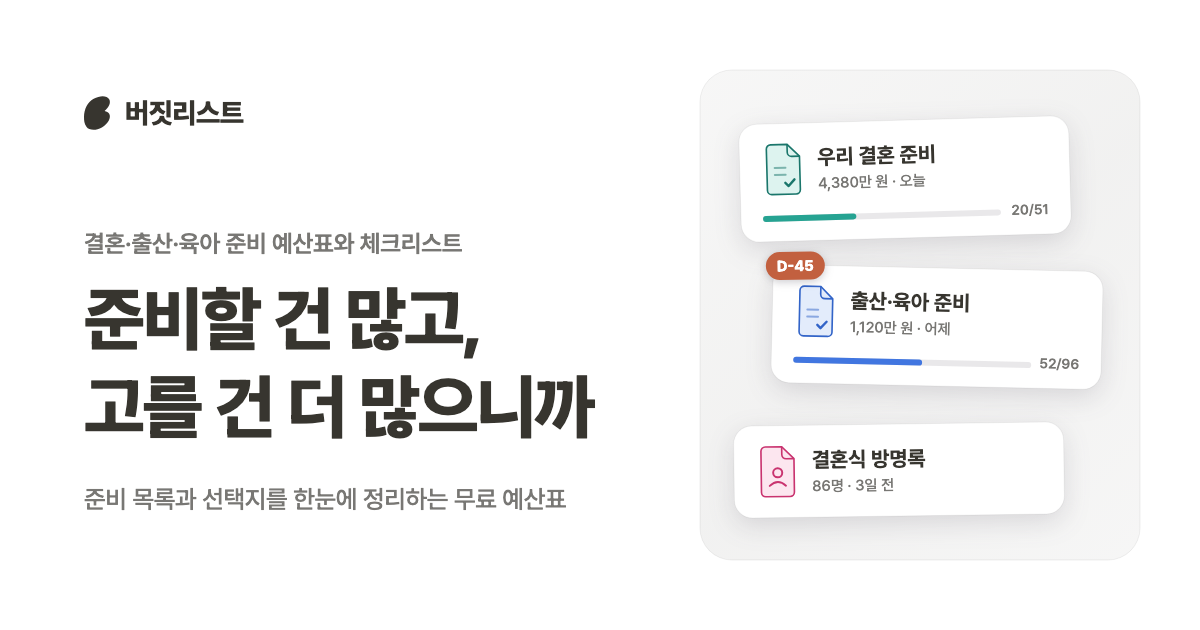
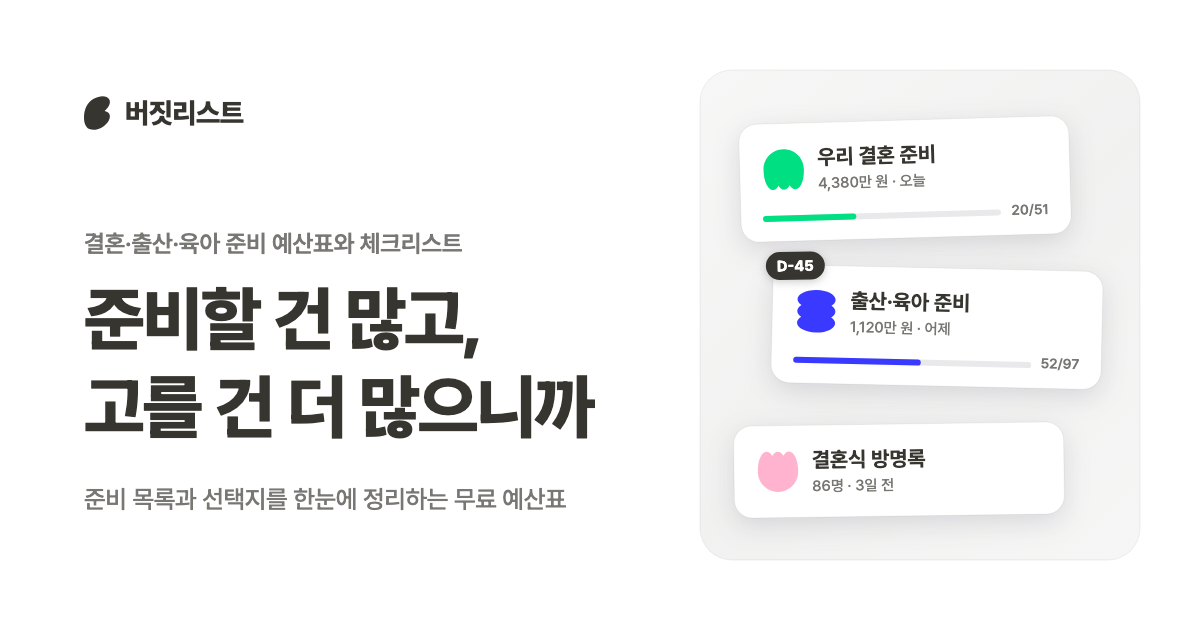
Add 가습기 to the baby template, redraw the share image, and bump asset versions

diff --git a/budget/baby/index.html b/budget/baby/index.html
@@ -4,7 +4,7 @@
 <meta charset="UTF-8">
 <meta name="viewport" content="width=device-width, initial-scale=1">
 <title>출산 준비물 리스트 · 육아용품 예산표 무료 양식 | 버짓리스트</title>
-<meta name="description" content="배냇저고리부터 카시트·유모차까지 출산 준비물 96개가 들어 있는 무료 체크리스트 겸 예산표. 항목마다 추천 제품이 선택지로 정리돼 있어 비교하기 쉽고, 엑셀로 내보내 구글 시트에서 이어 쓸 수 있어요.">
+<meta name="description" content="배냇저고리부터 카시트·유모차까지 출산 준비물 97개가 들어 있는 무료 체크리스트 겸 예산표. 항목마다 추천 제품이 선택지로 정리돼 있어 비교하기 쉽고, 엑셀로 내보내 구글 시트에서 이어 쓸 수 있어요.">
 <meta name="robots" content="index,follow">
 <link rel="canonical" href="https://slowmorn.com/budget/baby/">
 <meta property="og:url" content="https://slowmorn.com/budget/baby/">
@@ -12,13 +12,13 @@
 <meta property="og:type" content="article">
 <meta property="og:locale" content="ko_KR">
 <meta property="og:title" content="출산 준비물 리스트 · 육아용품 예산표 무료 양식">
-<meta property="og:description" content="출산 준비물 96개와 제품 선택지가 정리된 무료 체크리스트. 예산까지 한 번에.">
+<meta property="og:description" content="출산 준비물 97개와 제품 선택지가 정리된 무료 체크리스트. 예산까지 한 번에.">
 <link rel="icon" href="../favicon.svg?v=3" type="image/svg+xml">
 <link rel="apple-touch-icon" href="../favicon.svg?v=3">
-<meta property="og:image" content="https://slowmorn.com/budget/og.png?v=3">
+<meta property="og:image" content="https://slowmorn.com/budget/og.png?v=4">
 <meta property="og:image:width" content="1200">
 <meta property="og:image:height" content="630">
-<meta name="twitter:image" content="https://slowmorn.com/budget/og.png?v=3">
+<meta name="twitter:image" content="https://slowmorn.com/budget/og.png?v=4">
 <!-- Google Analytics 4 -->
 <script async src="https://www.googletagmanager.com/gtag/js?id=G-ZB0D0NTBJ8"></script>
 <script>
@@ -29,8 +29,8 @@
 </script>
 <link rel="preconnect" href="https://cdn.jsdelivr.net" crossorigin>
 <link href="https://cdn.jsdelivr.net/npm/pretendard@1.3.9/dist/web/variable/pretendardvariable-dynamic-subset.min.css" rel="stylesheet">
-<link rel="stylesheet" href="../assets/base.css?v=20260925c">
-<link rel="stylesheet" href="../assets/site.css?v=20260925d">
+<link rel="stylesheet" href="../assets/base.css?v=20260926b">
+<link rel="stylesheet" href="../assets/site.css?v=20260926d">
 </head>
 <body>
 <header class="topbar">
@@ -53,7 +53,7 @@
     <p class="hero-kicker">무료 템플릿 · 가입 없음</p>
     <h1>출산 준비물 리스트와 예산을 한 장에 정리하세요</h1>
     <p class="lead">
-      산모 용품과 출산 가방부터 아기옷, 수면·생활용품, 수유·기저귀, 목욕·위생용품, 세제, 외출용품까지 96개 항목이 미리 들어 있어요.
+      산모 용품과 출산 가방부터 아기옷, 수면·생활용품, 수유·기저귀, 목욕·위생용품, 세제, 외출용품까지 97개 항목이 미리 들어 있어요.
       항목마다 많이 쓰는 제품이 <b>선택지</b>로 정리돼 있어서 가격을 비교하고 고르기만 하면 예산이 채워져요.
       빠진 건 추가하고, 준비가 끝난 항목은 체크해 두세요.
     </p>
@@ -64,7 +64,7 @@
 
 <main>
   <h2>출산 준비물 체크리스트</h2>
-  <p>카테고리 10개, 항목 96개예요. 아기 성별과 계절, 조리원 제공 품목에 따라 필요 없는 건 지우면 돼요.</p>
+  <p>카테고리 10개, 항목 97개예요. 아기 성별과 계절, 조리원 제공 품목에 따라 필요 없는 건 지우면 돼요.</p>
   <table class="cat-table">
     <thead><tr><th>카테고리</th><th>준비물</th></tr></thead>
     <tbody>
@@ -72,7 +72,7 @@
       <tr><th>출산 가방</th><td>수유 브라, 임부 팬티, 안심 팬티, 산모 패드, 수유 패드, 중·대형 생리대, 모유저장팩, 양배추팩, 가슴 쿨링패치, 텀블러, 주름 빨대, 보습 크림, 무압박 양말, 압박스타킹, 손목보호대, 영양제, 세면도구, 기초화장품, 마스크, 푹신한 슬리퍼, 충전기, 립밤, 손톱깎이, 비판텐, 아기 손수건</td></tr>
       <tr><th>아기옷</th><td>배냇저고리, 바디수트, 겉싸개, 속싸개, 스와들업, 손싸개, 모자, 양말, 내복, 아기 손수건, 외출복</td></tr>
       <tr><th>수면</th><td>아기 침대 (신생아용), 아기침대, 침대 시트, 방수 패드, 쿨매트, 아기 이불</td></tr>
-      <tr><th>생활</th><td>하이체어, 바운서, 거실 매트, 타이니모빌, 아기체육관</td></tr>
+      <tr><th>생활</th><td>하이체어, 바운서, 거실 매트, 가습기, 타이니모빌, 아기체육관</td></tr>
       <tr><th>수유</th><td>젖병, 쪽쪽이, 젖병 세척기, 젖병 소독기, 분유포트, 분유쉐이커, 분유, 유축기, 젖병솔, 젖병집게</td></tr>
       <tr><th>기저귀</th><td>기저귀 갈이대, 기저귀, 방수 패드, 위생 패드, 기저귀 휴지통, 기저귀 가방</td></tr>
       <tr><th>목욕·위생</th><td>아기 욕조 (신생아용), 아기 수전, 샤워헤드, 아기 비데, 물티슈, 구강 티슈, 아기 면봉, 아기칫솔, 아기치약, 아기 샴푸·바디워시, 아기 로션, 수딩젤, 체온계, 온습도계, 손톱깎이 세트, 콧물 흡입기</td></tr>
@@ -107,7 +107,7 @@
 
   <div class="end">
     <h2>지금 바로 시작해 보세요</h2>
-    <p>출산 준비물 96개와 제품 선택지가 채워진 체크리스트가 열려요.</p>
+    <p>출산 준비물 97개와 제품 선택지가 채워진 체크리스트가 열려요.</p>
     <a class="cta" href="../planner/?tpl=baby">출산 준비 템플릿 열기</a>
   </div>
 </main>
@@ -131,7 +131,7 @@
       "name": "출산 준비물 리스트 만들기",
       "inLanguage": "ko",
       "step": [
-        { "@type": "HowToStep", "name": "템플릿 열기", "text": "출산 준비 템플릿을 열어 카테고리 10개와 준비물 96개를 불러옵니다." },
+        { "@type": "HowToStep", "name": "템플릿 열기", "text": "출산 준비 템플릿을 열어 카테고리 10개와 준비물 97개를 불러옵니다." },
         { "@type": "HowToStep", "name": "항목 정리", "text": "조리원 제공 품목이나 물려받을 물건을 정리해 목록을 우리 상황에 맞춥니다." },
         { "@type": "HowToStep", "name": "제품 고르기", "text": "항목의 선택지에서 제품을 비교하고 하나를 고르면 예산이 채워집니다." },
         { "@type": "HowToStep", "name": "내보내기", "text": "엑셀로 내보내 구글 시트에서 배우자와 함께 관리합니다." }

diff --git a/budget/guide/index.html b/budget/guide/index.html
@@ -15,10 +15,10 @@
 <meta property="og:description" content="파일 만들기부터 선택지, 실제 지출 칸, 엑셀 내보내기, 함께 쓰기까지 버짓리스트 사용법.">
 <link rel="icon" href="../favicon.svg?v=3" type="image/svg+xml">
 <link rel="apple-touch-icon" href="../favicon.svg?v=3">
-<meta property="og:image" content="https://slowmorn.com/budget/og.png?v=3">
+<meta property="og:image" content="https://slowmorn.com/budget/og.png?v=4">
 <meta property="og:image:width" content="1200">
 <meta property="og:image:height" content="630">
-<meta name="twitter:image" content="https://slowmorn.com/budget/og.png?v=3">
+<meta name="twitter:image" content="https://slowmorn.com/budget/og.png?v=4">
 <!-- Google Analytics 4 -->
 <script async src="https://www.googletagmanager.com/gtag/js?id=G-ZB0D0NTBJ8"></script>
 <script>
@@ -29,8 +29,8 @@
 </script>
 <link rel="preconnect" href="https://cdn.jsdelivr.net" crossorigin>
 <link href="https://cdn.jsdelivr.net/npm/pretendard@1.3.9/dist/web/variable/pretendardvariable-dynamic-subset.min.css" rel="stylesheet">
-<link rel="stylesheet" href="../assets/base.css?v=20260925c">
-<link rel="stylesheet" href="../assets/site.css?v=20260925d">
+<link rel="stylesheet" href="../assets/base.css?v=20260926b">
+<link rel="stylesheet" href="../assets/site.css?v=20260926d">
 </head>
 <body>
 <header class="topbar">
@@ -66,7 +66,7 @@
   </p>
   <ul>
     <li><b>결혼 준비</b> — 예식장·스드메·예물·혼수까지 8개 카테고리, 51개 항목</li>
-    <li><b>출산·육아 준비</b> — 산모·출산 가방·아기옷·수유·외출까지 10개 카테고리, 96개 항목과 제품 선택지</li>
+    <li><b>출산·육아 준비</b> — 산모·출산 가방·아기옷·수유·외출까지 10개 카테고리, 97개 항목과 제품 선택지</li>
     <li><b>방명록</b> — 이름과 축의금만 적는 화면</li>
     <li><b>빈 목록</b> — 카테고리 하나와 빈 항목으로 처음부터</li>
   </ul>
@@ -262,7 +262,7 @@
 
 <script src="../assets/config.js?v=20260923v"></script>
 <script src="../assets/auth.js?v=20260923v"></script>
-<script src="../assets/store.js?v=20260925e"></script>
+<script src="../assets/store.js?v=20260926b"></script>
 <script src="../assets/shell.js?v=20260923x"></script>
 </body>
 </html>

diff --git a/budget/planner/index.html b/budget/planner/index.html
@@ -15,10 +15,10 @@
 <meta name="twitter:card" content="summary_large_image">
 <link rel="icon" href="../favicon.svg?v=3" type="image/svg+xml">
 <link rel="apple-touch-icon" href="../favicon.svg?v=3">
-<meta property="og:image" content="https://slowmorn.com/budget/og.png?v=3">
+<meta property="og:image" content="https://slowmorn.com/budget/og.png?v=4">
 <meta property="og:image:width" content="1200">
 <meta property="og:image:height" content="630">
-<meta name="twitter:image" content="https://slowmorn.com/budget/og.png?v=3">
+<meta name="twitter:image" content="https://slowmorn.com/budget/og.png?v=4">
 <!-- Google Analytics 4 -->
 <script async src="https://www.googletagmanager.com/gtag/js?id=G-ZB0D0NTBJ8"></script>
 <script>
@@ -29,8 +29,8 @@
 </script>
 <link rel="preconnect" href="https://cdn.jsdelivr.net" crossorigin>
 <link href="https://cdn.jsdelivr.net/npm/pretendard@1.3.9/dist/web/variable/pretendardvariable-dynamic-subset.min.css" rel="stylesheet">
-<link rel="stylesheet" href="../assets/base.css?v=20260925c">
-<link rel="stylesheet" href="../assets/site.css?v=20260925d">
+<link rel="stylesheet" href="../assets/base.css?v=20260926b">
+<link rel="stylesheet" href="../assets/site.css?v=20260926d">
 <link rel="stylesheet" href="../assets/app.css?v=20260924e">
 </head>
 <body>
@@ -183,8 +183,8 @@
 
 <script src="../assets/config.js?v=20260923v"></script>
 <script src="../assets/auth.js?v=20260923v"></script>
-<script src="../assets/store.js?v=20260925e"></script>
+<script src="../assets/store.js?v=20260926b"></script>
 <script src="../assets/shell.js?v=20260923x"></script>
-<script src="../assets/app.js?v=20260925g"></script>
+<script src="../assets/app.js?v=20260926b"></script>
 </body>
 </html>

diff --git a/budget/privacy/index.html b/budget/privacy/index.html
@@ -15,10 +15,10 @@
 <meta property="og:description" content="버짓리스트가 어떤 정보를 왜, 얼마나 오래 보관하는지 안내합니다.">
 <link rel="icon" href="../favicon.svg?v=3" type="image/svg+xml">
 <link rel="apple-touch-icon" href="../favicon.svg?v=3">
-<meta property="og:image" content="https://slowmorn.com/budget/og.png?v=3">
+<meta property="og:image" content="https://slowmorn.com/budget/og.png?v=4">
 <meta property="og:image:width" content="1200">
 <meta property="og:image:height" content="630">
-<meta name="twitter:image" content="https://slowmorn.com/budget/og.png?v=3">
+<meta name="twitter:image" content="https://slowmorn.com/budget/og.png?v=4">
 <!-- Google Analytics 4 -->
 <script async src="https://www.googletagmanager.com/gtag/js?id=G-ZB0D0NTBJ8"></script>
 <script>
@@ -29,8 +29,8 @@
 </script>
 <link rel="preconnect" href="https://cdn.jsdelivr.net" crossorigin>
 <link href="https://cdn.jsdelivr.net/npm/pretendard@1.3.9/dist/web/variable/pretendardvariable-dynamic-subset.min.css" rel="stylesheet">
-<link rel="stylesheet" href="../assets/base.css?v=20260925c">
-<link rel="stylesheet" href="../assets/site.css?v=20260925d">
+<link rel="stylesheet" href="../assets/base.css?v=20260926b">
+<link rel="stylesheet" href="../assets/site.css?v=20260926d">
 </head>
 <body>
 <header class="topbar">
@@ -226,7 +226,7 @@
 
 <script src="../assets/config.js?v=20260923v"></script>
 <script src="../assets/auth.js?v=20260923v"></script>
-<script src="../assets/store.js?v=20260925e"></script>
+<script src="../assets/store.js?v=20260926b"></script>
 <script src="../assets/shell.js?v=20260923x"></script>
 </body>
 </html>

diff --git a/budget/index.html b/budget/index.html
@@ -16,10 +16,10 @@
 <meta name="twitter:card" content="summary_large_image">
 <link rel="icon" href="favicon.svg?v=3" type="image/svg+xml">
 <link rel="apple-touch-icon" href="favicon.svg?v=3">
-<meta property="og:image" content="https://slowmorn.com/budget/og.png?v=3">
+<meta property="og:image" content="https://slowmorn.com/budget/og.png?v=4">
 <meta property="og:image:width" content="1200">
 <meta property="og:image:height" content="630">
-<meta name="twitter:image" content="https://slowmorn.com/budget/og.png?v=3">
+<meta name="twitter:image" content="https://slowmorn.com/budget/og.png?v=4">
 <!-- Google Analytics 4 -->
 <script async src="https://www.googletagmanager.com/gtag/js?id=G-ZB0D0NTBJ8"></script>
 <script>
@@ -30,8 +30,8 @@
 </script>
 <link rel="preconnect" href="https://cdn.jsdelivr.net" crossorigin>
 <link href="https://cdn.jsdelivr.net/npm/pretendard@1.3.9/dist/web/variable/pretendardvariable-dynamic-subset.min.css" rel="stylesheet">
-<link rel="stylesheet" href="assets/base.css?v=20260925c">
-<link rel="stylesheet" href="assets/site.css?v=20260925d">
+<link rel="stylesheet" href="assets/base.css?v=20260926b">
+<link rel="stylesheet" href="assets/site.css?v=20260926d">
 </head>
 <body class="desk-page">
 
@@ -124,9 +124,9 @@
 
 <script src="assets/config.js?v=20260923v"></script>
 <script src="assets/auth.js?v=20260923v"></script>
-<script src="assets/store.js?v=20260925e"></script>
+<script src="assets/store.js?v=20260926b"></script>
 <script src="assets/shell.js?v=20260923x"></script>
-<script src="assets/desk.js?v=20260925f"></script>
+<script src="assets/desk.js?v=20260926c"></script>
 
 </body>
 </html>

diff --git a/budget/terms/index.html b/budget/terms/index.html
@@ -15,10 +15,10 @@
 <meta property="og:description" content="버짓리스트를 쓰실 때 적용되는 조건입니다.">
 <link rel="icon" href="../favicon.svg?v=3" type="image/svg+xml">
 <link rel="apple-touch-icon" href="../favicon.svg?v=3">
-<meta property="og:image" content="https://slowmorn.com/budget/og.png?v=3">
+<meta property="og:image" content="https://slowmorn.com/budget/og.png?v=4">
 <meta property="og:image:width" content="1200">
 <meta property="og:image:height" content="630">
-<meta name="twitter:image" content="https://slowmorn.com/budget/og.png?v=3">
+<meta name="twitter:image" content="https://slowmorn.com/budget/og.png?v=4">
 <!-- Google Analytics 4 -->
 <script async src="https://www.googletagmanager.com/gtag/js?id=G-ZB0D0NTBJ8"></script>
 <script>
@@ -29,8 +29,8 @@
 </script>
 <link rel="preconnect" href="https://cdn.jsdelivr.net" crossorigin>
 <link href="https://cdn.jsdelivr.net/npm/pretendard@1.3.9/dist/web/variable/pretendardvariable-dynamic-subset.min.css" rel="stylesheet">
-<link rel="stylesheet" href="../assets/base.css?v=20260925c">
-<link rel="stylesheet" href="../assets/site.css?v=20260925d">
+<link rel="stylesheet" href="../assets/base.css?v=20260926b">
+<link rel="stylesheet" href="../assets/site.css?v=20260926d">
 </head>
 <body>
 <header class="topbar">
@@ -179,7 +179,7 @@
 
 <script src="../assets/config.js?v=20260923v"></script>
 <script src="../assets/auth.js?v=20260923v"></script>
-<script src="../assets/store.js?v=20260925e"></script>
+<script src="../assets/store.js?v=20260926b"></script>
 <script src="../assets/shell.js?v=20260923x"></script>
 </body>
 </html>

diff --git a/budget/wedding/index.html b/budget/wedding/index.html
@@ -15,10 +15,10 @@
 <meta property="og:description" content="예식장부터 혼수까지 51개 항목이 들어 있는 결혼 준비 예산 템플릿. 엑셀·구글 시트로 내보내기.">
 <link rel="icon" href="../favicon.svg?v=3" type="image/svg+xml">
 <link rel="apple-touch-icon" href="../favicon.svg?v=3">
-<meta property="og:image" content="https://slowmorn.com/budget/og.png?v=3">
+<meta property="og:image" content="https://slowmorn.com/budget/og.png?v=4">
 <meta property="og:image:width" content="1200">
 <meta property="og:image:height" content="630">
-<meta name="twitter:image" content="https://slowmorn.com/budget/og.png?v=3">
+<meta name="twitter:image" content="https://slowmorn.com/budget/og.png?v=4">
 <!-- Google Analytics 4 -->
 <script async src="https://www.googletagmanager.com/gtag/js?id=G-ZB0D0NTBJ8"></script>
 <script>
@@ -29,8 +29,8 @@
 </script>
 <link rel="preconnect" href="https://cdn.jsdelivr.net" crossorigin>
 <link href="https://cdn.jsdelivr.net/npm/pretendard@1.3.9/dist/web/variable/pretendardvariable-dynamic-subset.min.css" rel="stylesheet">
-<link rel="stylesheet" href="../assets/base.css?v=20260925c">
-<link rel="stylesheet" href="../assets/site.css?v=20260925d">
+<link rel="stylesheet" href="../assets/base.css?v=20260926b">
+<link rel="stylesheet" href="../assets/site.css?v=20260926d">
 </head>
 <body>
 <header class="topbar">

diff --git a/budget/guestbook/index.html b/budget/guestbook/index.html
@@ -15,10 +15,10 @@
 <meta property="og:description" content="이름과 금액만 적으면 인원·합계가 자동 계산되는 무료 축의금 방명록 양식.">
 <link rel="icon" href="../favicon.svg?v=3" type="image/svg+xml">
 <link rel="apple-touch-icon" href="../favicon.svg?v=3">
-<meta property="og:image" content="https://slowmorn.com/budget/og.png?v=3">
+<meta property="og:image" content="https://slowmorn.com/budget/og.png?v=4">
 <meta property="og:image:width" content="1200">
 <meta property="og:image:height" content="630">
-<meta name="twitter:image" content="https://slowmorn.com/budget/og.png?v=3">
+<meta name="twitter:image" content="https://slowmorn.com/budget/og.png?v=4">
 <!-- Google Analytics 4 -->
 <script async src="https://www.googletagmanager.com/gtag/js?id=G-ZB0D0NTBJ8"></script>
 <script>
@@ -29,8 +29,8 @@
 </script>
 <link rel="preconnect" href="https://cdn.jsdelivr.net" crossorigin>
 <link href="https://cdn.jsdelivr.net/npm/pretendard@1.3.9/dist/web/variable/pretendardvariable-dynamic-subset.min.css" rel="stylesheet">
-<link rel="stylesheet" href="../assets/base.css?v=20260925c">
-<link rel="stylesheet" href="../assets/site.css?v=20260925d">
+<link rel="stylesheet" href="../assets/base.css?v=20260926b">
+<link rel="stylesheet" href="../assets/site.css?v=20260926d">
 </head>
 <body>
 <header class="topbar">
